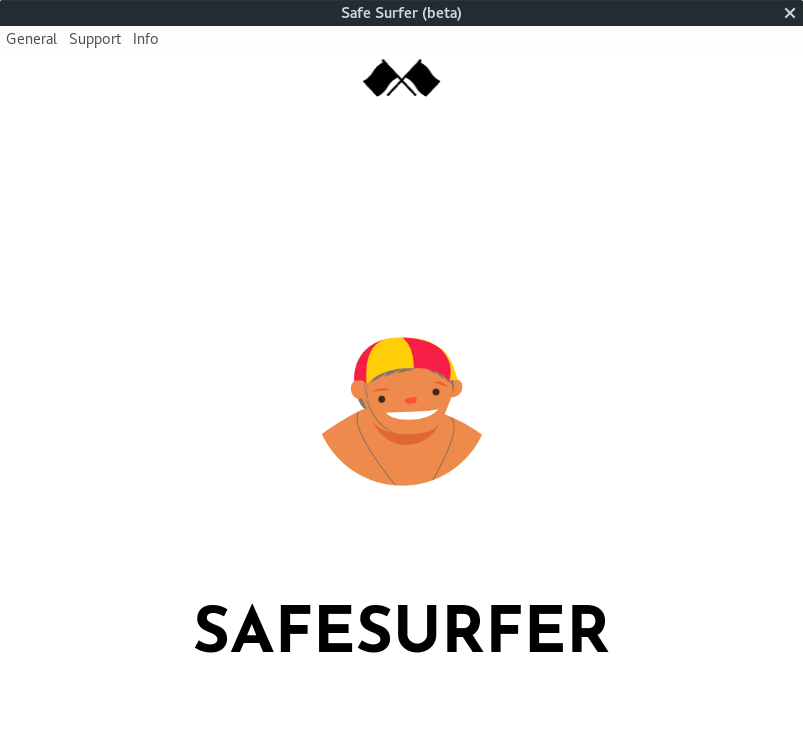
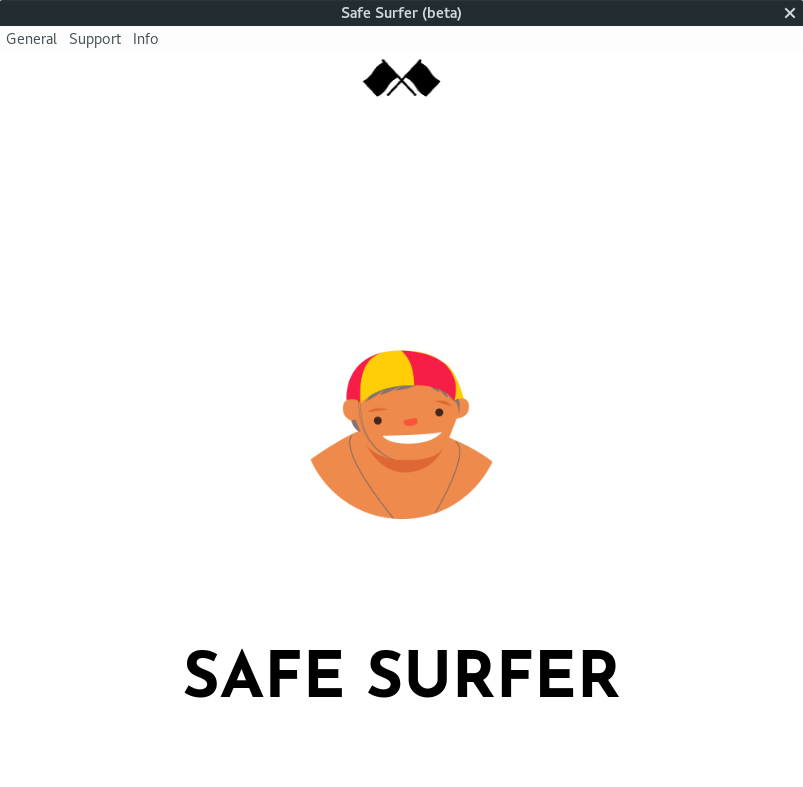
UPDATED: Makefile, README.md, about page, index.html, etc...
Added:
- Support for building 32-bit Linux binaries
- Ability to update integration of AppImages to a link to a newer
version

Updated:
- AppImage now uses the same format for desktop files as other versions
- Safe Surfer title on launch screen now contains a space between the
words
- Now uses node_dns_changer version 1.0.6 (macOS compatibilty should be
now included)
- Position and size of app icon in about app screen
- Screenshots for title launch screen
- Spec files, so node_modules and source code (as a zips) can be shipped
seperately

diff --git a/assets/style/about.css b/assets/style/about.css
@@ -37,7 +37,7 @@
   width: 100%;
   text-align: center;
   line-height: 1.2em;
-  transition: font-size 0.9s;
+  transition: font-size 0.7s;
 }
 
 .descriptionBox {
@@ -47,7 +47,7 @@
   left: 0;
   right: 0;
   bottom: 0;
-  padding-top: 160px;
+  padding-top: 180px;
   padding-bottom: 10px;
 	border-top-left-radius: 30px;
 	border-top-right-radius: 30px;
@@ -57,13 +57,37 @@
 	transition: padding-top 0.5s;
 }
 
+#ss-logo {
+  width: 240px;
+  height: 240px;
+	transition: width 0.5s, height 0.5s;
+}
+
+.mainCenter_logo {
+	margin: 0;
+	position: absolute;
+	top: 36%;
+	left: 50%;
+	transform: translate(-50%, -36%);
+}
+
 @media only screen and (max-width: 1099px) {
   .descriptionBox {
-    padding-top: 100px;
+    padding-top: 120px;
   }
 
   .descriptionText {
 	  font-size: 1.1em;
 	  line-height: 1.2em;
   }
+
+  #ss-logo {
+    width: 200px;
+    height: 200px;
+  }
+
+	.mainCenter_logo {
+	  top: 55%;
+	  transform: translate(-50%, -55%);
+	}
 }

diff --git a/index.html b/index.html
@@ -45,7 +45,7 @@
     <div class="appLoadingScreen" style="z-index: 45">
       <img src="./assets/media/ss-surfer-head.png" style="width:200px; height:200px; z-index:-2;" id="mainScreen_background" class="mainCenter">
       <img src="./assets/media/flags-black.png" style="width:10%; height:auto; z-index:-2;" class="mainCenter_top" id="initFlag">
-      <h1 class="bigText nowrap mainCenter_init bigText_init" style="color:black;" id="bigTextBrandName">SAFESURFER</h1>
+      <h1 class="bigText nowrap mainCenter_init bigText_init" style="color:black; white-space: nowrap;" id="bigTextBrandName">SAFE SURFER</h1>
     </div>
     <div class="mainCenter_down" style="z-index: 40">
       <button type="button" onclick="appFrame.toggleServiceState();" class="serviceToggle" style="z-index:50;" id="toggleButton">CHECKING SERVICE STATE</button>

diff --git a/assets/html/about.html b/assets/html/about.html
@@ -9,7 +9,7 @@
     <div class="gradientBackground"></div>
     <h1 class="bigText bigText_init" style="color:black;" id="bigTextBrandName">Safe Surfer Desktop</h1>
     <img src="../media/ss-waves-blur.png" style="width:100%; z-index:-5;" id="ss-waves" class="mainCenter_midDown">
-    <img src="../media/ss-surfer-head.png" style="width:240px; height:240px; z-index:-2;" id="ss-logo" class="mainCenter_midDown">
+    <img src="../media/ss-surfer-head.png" style="z-index:-2;" id="ss-logo" class="mainCenter_logo">
     <div class="descriptionBox">
       <h1 class="descriptionText mainCenter_down" style="color:black;" id="description">Description</h1>
     </div>

diff --git a/README.md b/README.md
@@ -32,9 +32,9 @@ We look forward to your help on this project, together helping families and indi
 
 [![Translation status list](https://hosted.weblate.org/widgets/safe-surfer/-/translations/multi-green.svg)](https://hosted.weblate.org/projects/safe-surfer/translations)  
 
+Note: Although it might say that the translation is 100%, it may need review.  
 Help us speak your language!  
 Read our [translation guide](TRANSLATING.md) to get started!  
-Note: Although it might say that the translation is 100%, it may need more review.  
 
 ### Bugs
 Wanna help us find and squash bugs?  
